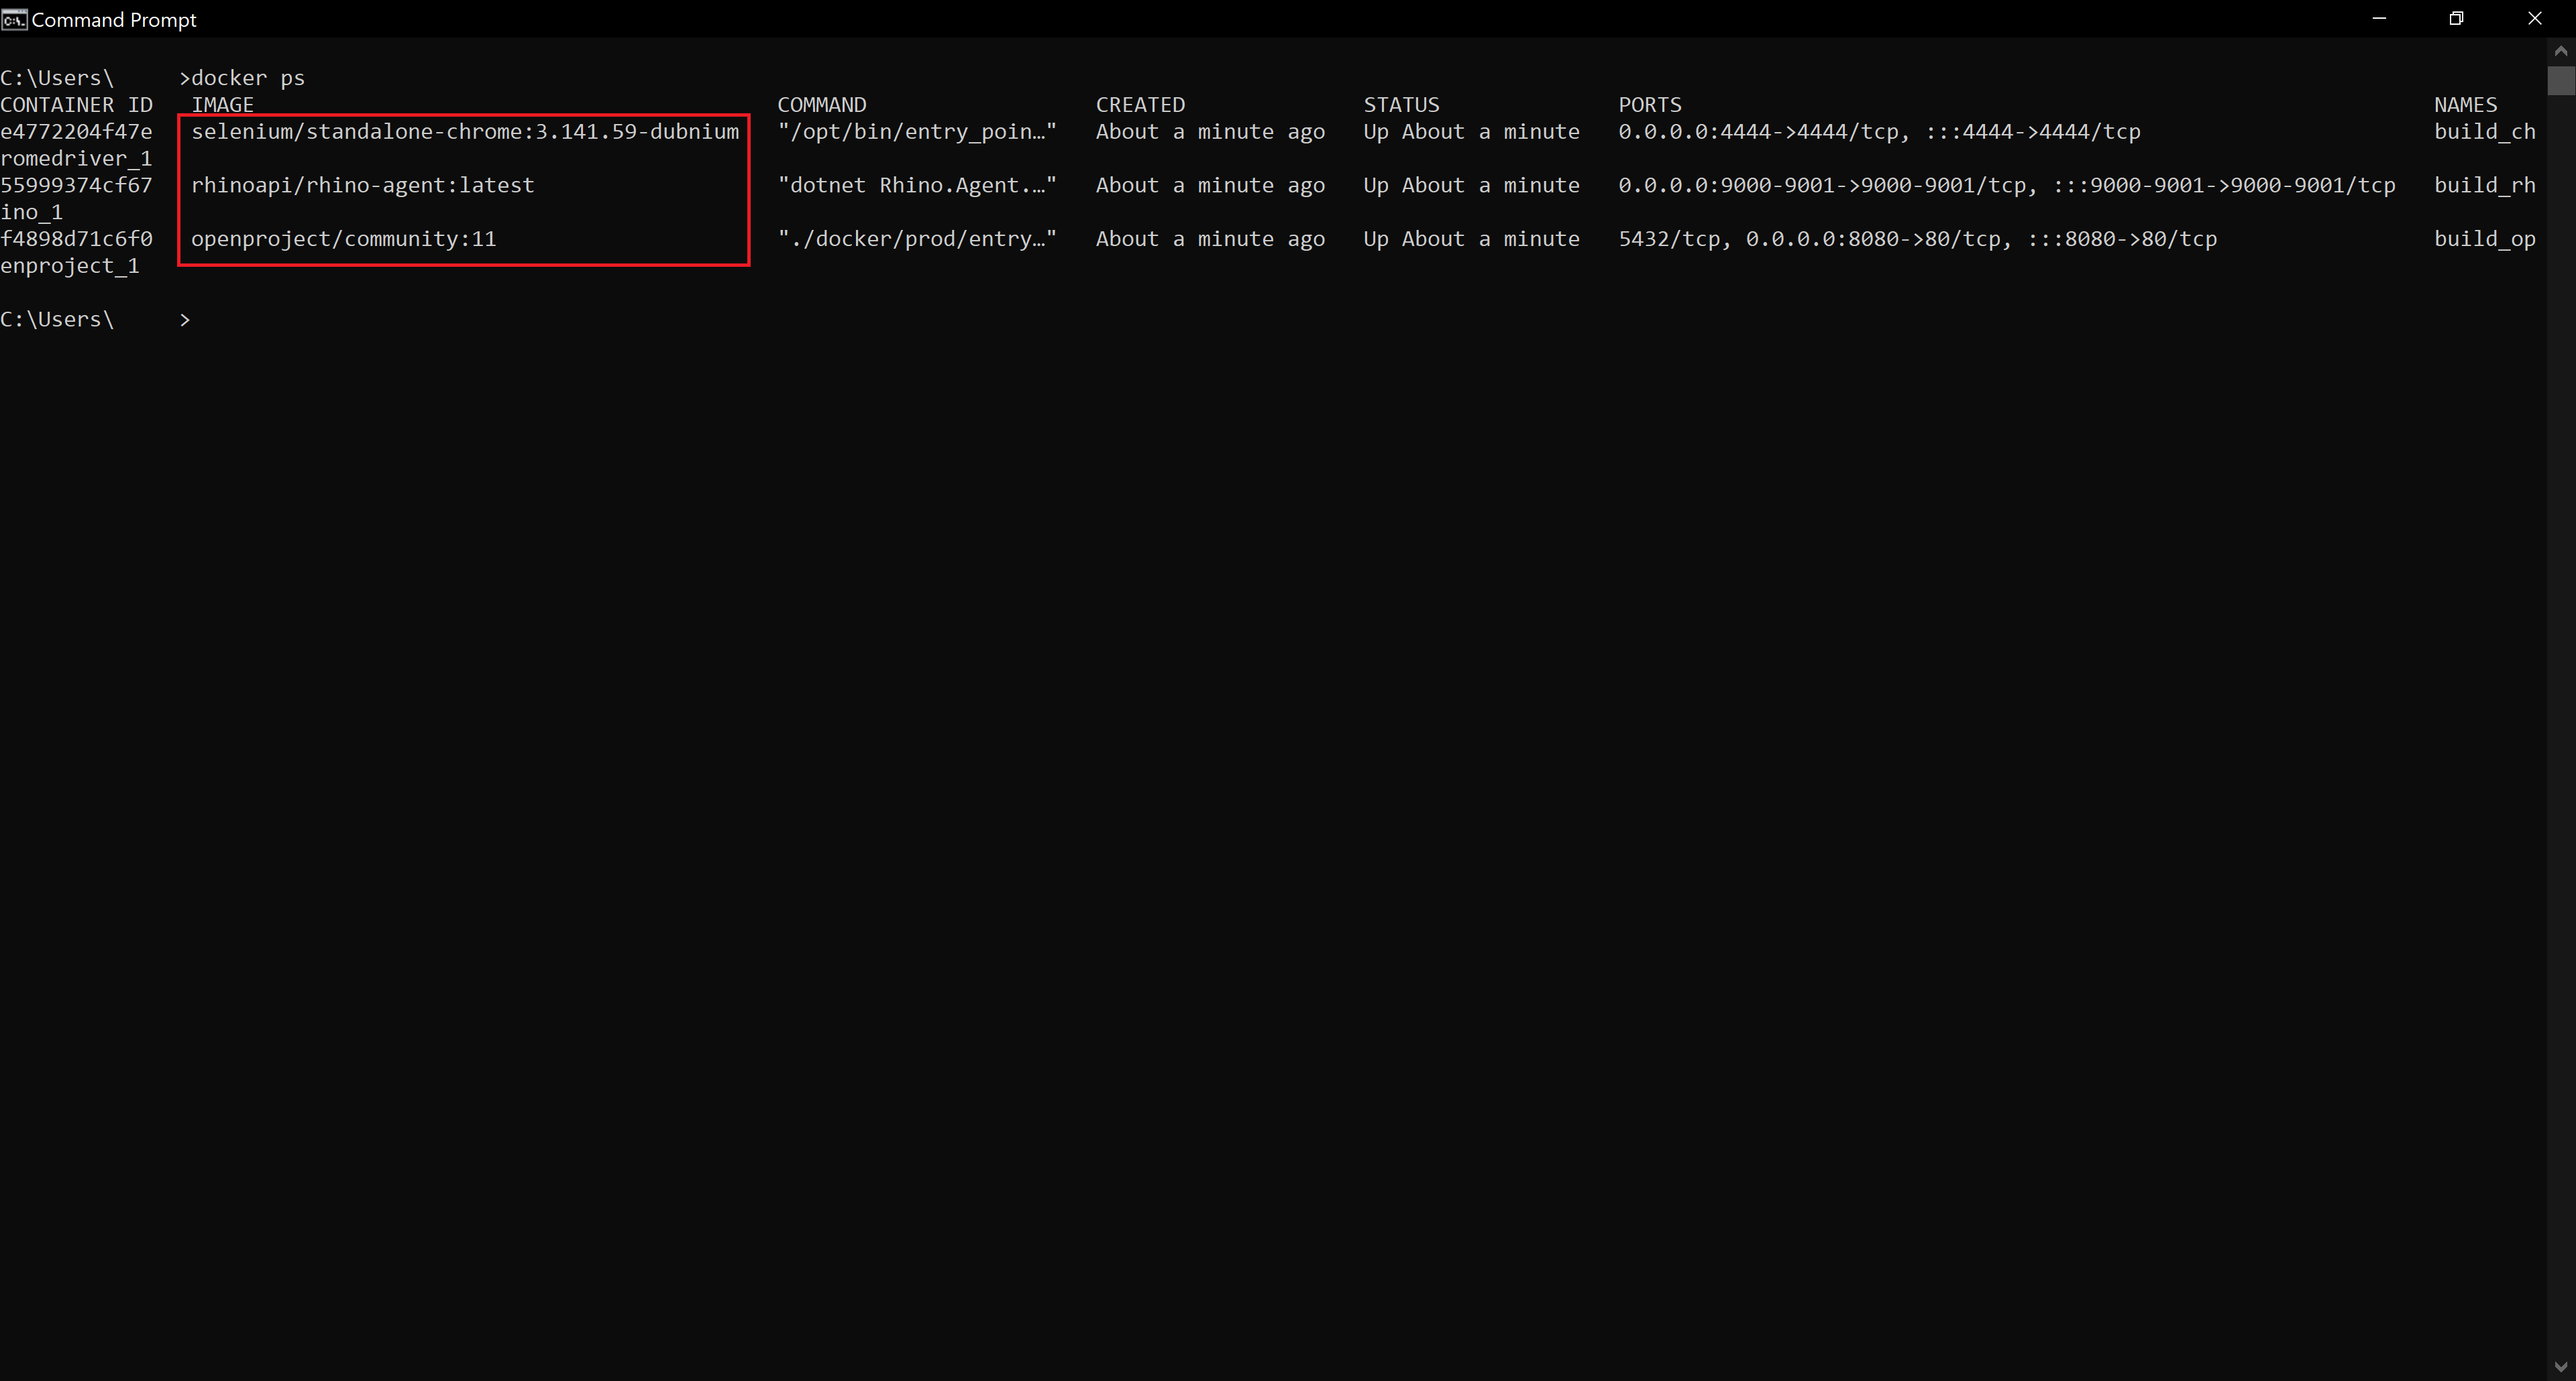
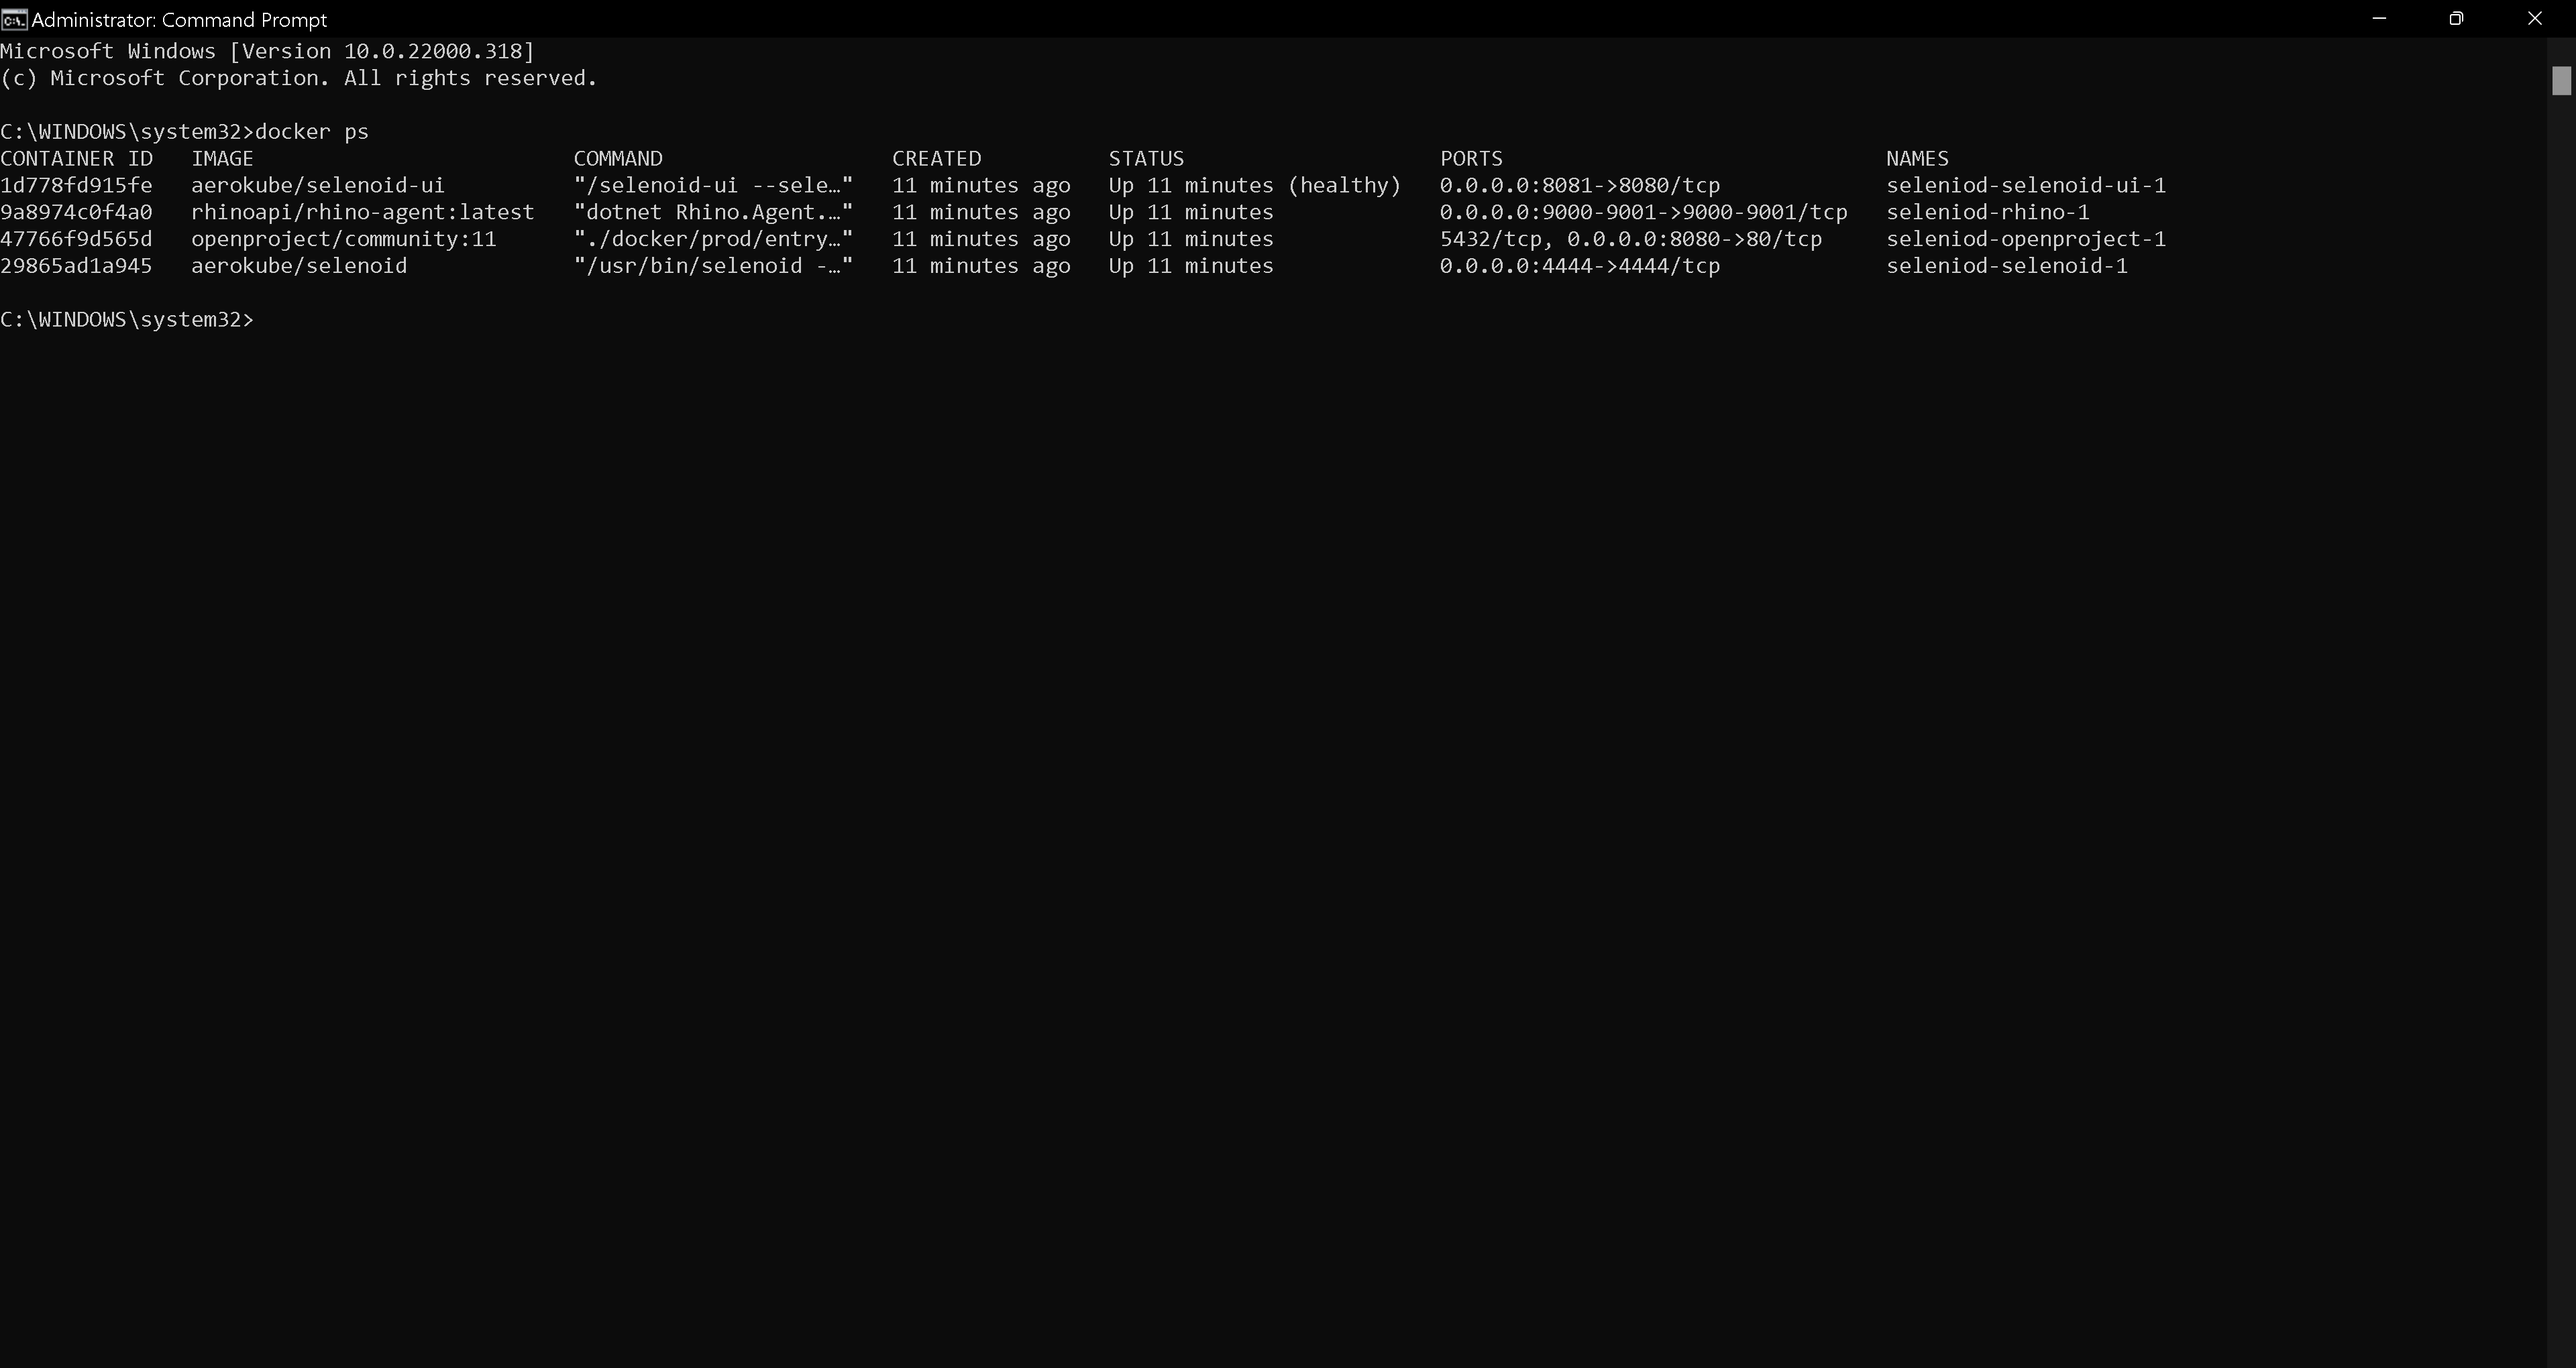
updates

diff --git a/docs/Tutorials.SetupEnvironment/08.SutDeployment.md b/docs/Tutorials.SetupEnvironment/08.SutDeployment.md
@@ -1,12 +1,100 @@
 :arrow_backward: [Previous](./07.InstallDockerCompose.md) Unit 8 of 10 [Next](./09.RhinoHealthCheck.md) :arrow_forward:
 
-# Deploy Rhino API, OpenProject Application and Selenium Chrome driver with Docker Compose
-5 min · Unit · [Roei Sabag](https://www.linkedin.com/in/roei-sabag-247aa18/) · Level ★★☆☆☆
+# Deploy Rhino API, OpenProject Application and Selenoid with Docker Compose
+5 min · Unit · [Roei Sabag](https://www.linkedin.com/in/roei-sabag-247aa18/) · Level ★★★★☆
+
+## Pull Browsers Images
+Selenoid allows to run automation in parallel using different browsers. The automation runs on a container which is created when the automation starts and disposed when the automation is complete.  
+
+1. Run the following pull commands  
+
+```bash
+$ docker pull selenoid/chrome:latest
+$ docker pull selenoid/chrome:95.0
+$ docker pull selenoid/firefox:latest
+$ docker pull selenoid/firefox:93.0
+$ docker pull selenoid/opera:latest
+$ docker pull selenoid/opera:80.0
+$ docker pull selenoid/video-recorder:latest-release
+```
+
+## Create browsers.json Configuration File
+Selenoid uses a configuration file to map available browsers images to provided capabilities. Please follow these steps in order to create `browsers.json` configuration for Selenoid.  
+
+1. Create a file `browsers.json` under `C:\DockerVolumes\Rhino\Seleniod` for `Windows` or `/app/rhino/selenoid` for `Linux`
+2. Copy the following content into `browsers.json` file you have just created.
+  
+> :information_source: **Information**
+> 
+> You can add more browsers and versions based on your needs. Check the available browsers for Selenium https://aerokube.com/images/latest/#_selenium. 
+  
+```json
+{
+  "chrome": {
+    "default": "latest",
+    "versions": {
+      "95.0": {
+        "image": "selenoid/chrome:95.0",
+        "port": "4444",
+        "path": "/"
+      },
+      "latest": {
+        "image": "selenoid/chrome:latest",
+        "port": "4444",
+        "path": "/"
+      }
+    }
+  },
+  "firefox": {
+    "default": "latest",
+    "versions": {
+      "93.0": {
+        "image": "selenoid/firefox:93.0",
+        "port": "4444",
+        "path": "/wd/hub"
+      },
+      "latest": {
+        "image": "selenoid/firefox:latest",
+        "port": "4444",
+        "path": "/wd/hub"
+      }
+    }
+  },
+  "opera": {
+    "default": "latest",
+    "versions": {
+      "80.0": {
+        "image": "selenoid/opera:80.0",
+        "port": "4444",
+        "path": "/"
+      },
+      "latest": {
+        "image": "selenoid/opera:latest",
+        "port": "4444",
+        "path": "/"
+      }
+    }
+  }
+}
+```
   
 ## Create the Docker Compose YAML
 1. Create a file `docker-compose.yaml`.
 2. Edit the file with any text editor.
-3. Copy the following content into `docker-compose.yaml`.  
+3. Copy the following content into `docker-compose.yaml`.
+4. Replace `<host-ip>` (in the `yaml` last line) with your machine IP address.  
+
+### Command Line for Getting IP Address
+```bash
+# Mac OS
+$ ipconfig getifaddr en0
+
+# Windows
+$ ipconfig
+
+# Linux
+$ ip addr
+```
 
 > :information_source: **Information**
 > 
@@ -14,15 +102,14 @@
 
 ### Windows
 ```yaml
-version: "3.8"
-
+version: '3'
 services:
   openproject:
     image: openproject/community:11
     environment:
       - SECRET_KEY_BASE=secret
     ports:
-      - 8080:80
+      - 8085:80
 
   rhino:
     image: rhinoapi/rhino-agent:latest
@@ -32,29 +119,46 @@ services:
       - 9001:9001
       - 9000:9000
     volumes:
-      - C:/DockerVolumes/Rhino/Outputs:/app/Outputs # You need to provide a vaild local folder.
-      - C:/DockerVolumes/Rhino/Data:/app/Data       # You need to provide a vaild local folder.
-      - C:/DockerVolumes/Rhino/Plugins:/app/Plugins # You need to provide a vaild local folder.
+      - /C/DockerVolumes/Rhino/Outputs:/app/Outputs # You need to provide a vaild local folder.
+      - /C/DockerVolumes/Rhino/Data:/app/Data       # You need to provide a vaild local folder.
+      - /C/DockerVolumes/Rhino/Plugins:/app/Plugins # You need to provide a vaild local folder.
 
-  chromedriver:
-    image: selenium/standalone-chrome:3.141.59-dubnium
-    depends_on:
-      - rhino
+  selenoid:
+    image: "aerokube/selenoid"
+    network_mode: bridge
     ports:
-      - 4444:4444
+      - "4444:4444"
+    volumes:
+      - "/C/DockerVolumes/Rhino/Seleniod:/etc/selenoid"
+      - "/C/DockerVolumes/Rhino/Seleniod/Video:/opt/selenoid/video"
+      - "/C/DockerVolumes/Rhino/Seleniod/Logs:/opt/selenoid/logs"
+      - "/var/run/docker.sock:/var/run/docker.sock"
+    environment:
+      - OVERRIDE_VIDEO_OUTPUT_DIR=/C/DockerVolumes/Rhino/seleniod/video
+    command: ["-conf", "/etc/selenoid/browsers.json", "-video-output-dir", "/opt/selenoid/video", "-log-output-dir", "/opt/selenoid/logs"]
+    ports:
+      - "4444:4444"
+
+  selenoid-ui:
+    image: "aerokube/selenoid-ui"
+    network_mode: bridge
+    links:
+      - selenoid
+    ports:
+      - "8080:8080"
+    command: ["--selenoid-uri", "http://<host-ip>:4444"]
 ```  
 
 ### Linux
 ```yaml
-version: "3.8"
-
+version: '3'
 services:
   openproject:
     image: openproject/community:11
     environment:
       - SECRET_KEY_BASE=secret
     ports:
-      - 8080:80
+      - 8085:80
 
   rhino:
     image: rhinoapi/rhino-agent:latest
@@ -64,16 +168,34 @@ services:
       - 9001:9001
       - 9000:9000
     volumes:
-      - /usr/DockerVolumes/Rhino/Outputs:/app/Outputs # You need to provide a vaild local folder.
-      - /usr/DockerVolumes/Rhino/Data:/app/Data       # You need to provide a vaild local folder.
-      - /usr/DockerVolumes/Rhino/Plugins:/app/Plugins # You need to provide a vaild local folder.
+      - /app/rhino/outputs:/app/Outputs # You need to provide a vaild local folder.
+      - /app/rhino/data:/app/Data       # You need to provide a vaild local folder.
+      - /app/rhino/plugins:/app/Plugins # You need to provide a vaild local folder.
 
-  chromedriver:
-    image: selenium/standalone-chrome:3.141.59-dubnium
-    depends_on:
-      - rhino
+  selenoid:
+    image: "aerokube/selenoid"
+    network_mode: bridge
     ports:
-      - 4444:4444
+      - "4444:4444"
+    volumes:
+      - "/app/rhino/selenoid:/etc/selenoid"
+      - "/app/rhino/selenoid/video:/opt/selenoid/video"
+      - "/app/rhino/selenoid/logs:/opt/selenoid/logs"
+      - "/var/run/docker.sock:/var/run/docker.sock"
+    environment:
+      - OVERRIDE_VIDEO_OUTPUT_DIR=/opt/selenoid/logs
+    command: ["-conf", "/etc/selenoid/browsers.json", "-video-output-dir", "/opt/selenoid/video", "-log-output-dir", "/opt/selenoid/logs"]
+    ports:
+      - "4444:4444"
+
+  selenoid-ui:
+    image: "aerokube/selenoid-ui"
+    network_mode: bridge
+    links:
+      - selenoid
+    ports:
+      - "8080:8080"
+    command: ["--selenoid-uri", "http://<host-ip>:4444"]
 ``` 
 
 5. Save the file.

diff --git a/docs/Tutorials.SetupEnvironment/00.Module.md b/docs/Tutorials.SetupEnvironment/00.Module.md
@@ -11,6 +11,7 @@ In this module, you will:
 * Install IDE (Integrated Development Environment).
 * Install automation tools (Postman, Node.js).
 * Install and configure Docker.
+* Deploy and run [Selenoid](https://aerokube.com/selenoid/latest/) a powerful implementation of original Selenium hub code that using Docker to launch browsers.
 * Deploy Rhino and the AUT (Applications Under Test).
 
 ---
@@ -45,7 +46,7 @@ In this module, you will:
 > [Install Docker Compose](./07.InstallDockerCompose.md)  
   10 min  
 
-> [Deploy Rhino API, OpenProject Application and Selenium Chrome driver with Docker Compose](./08.SutDeployment.md)  
+> [Deploy Rhino API, OpenProject Application and Selenoid with Docker Compose](./08.SutDeployment.md)  
   10 min  
 
 > [Run Rhino API health check to verify the Rhino API deployment](./09.RhinoHealthCheck.md)  

diff --git a/docs/Tutorials.OpenProject/00.Module.md b/docs/Tutorials.OpenProject/00.Module.md
@@ -24,7 +24,7 @@ In this module, you will:
 * Complete [Setup Environment](../Tutorials.SetupEnvironment/00.Module.md) Module.
 
 ## Units
-> [Install Visual Studio Code]()  
+> [Setup OpenProject Application]()  
   10 min  
  
 > [Install Rhino API Language Support Plugin]()  
